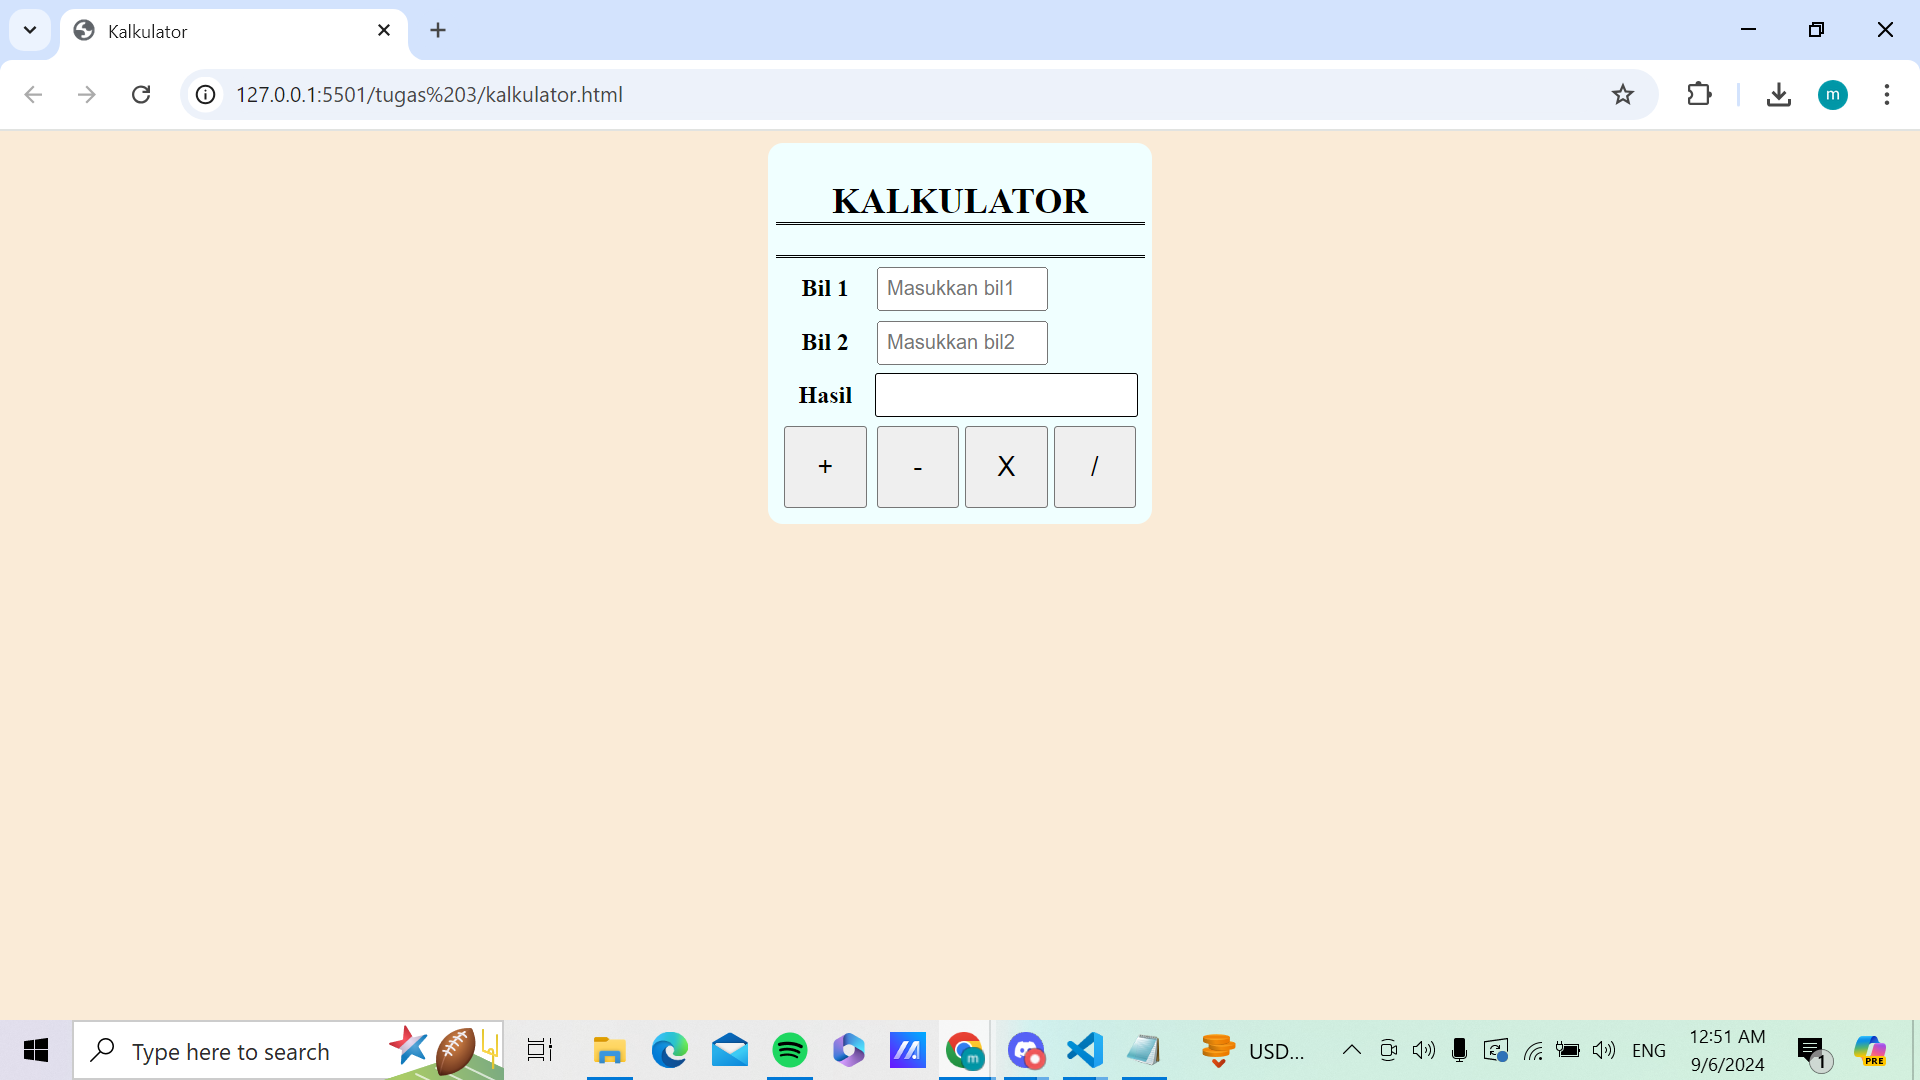
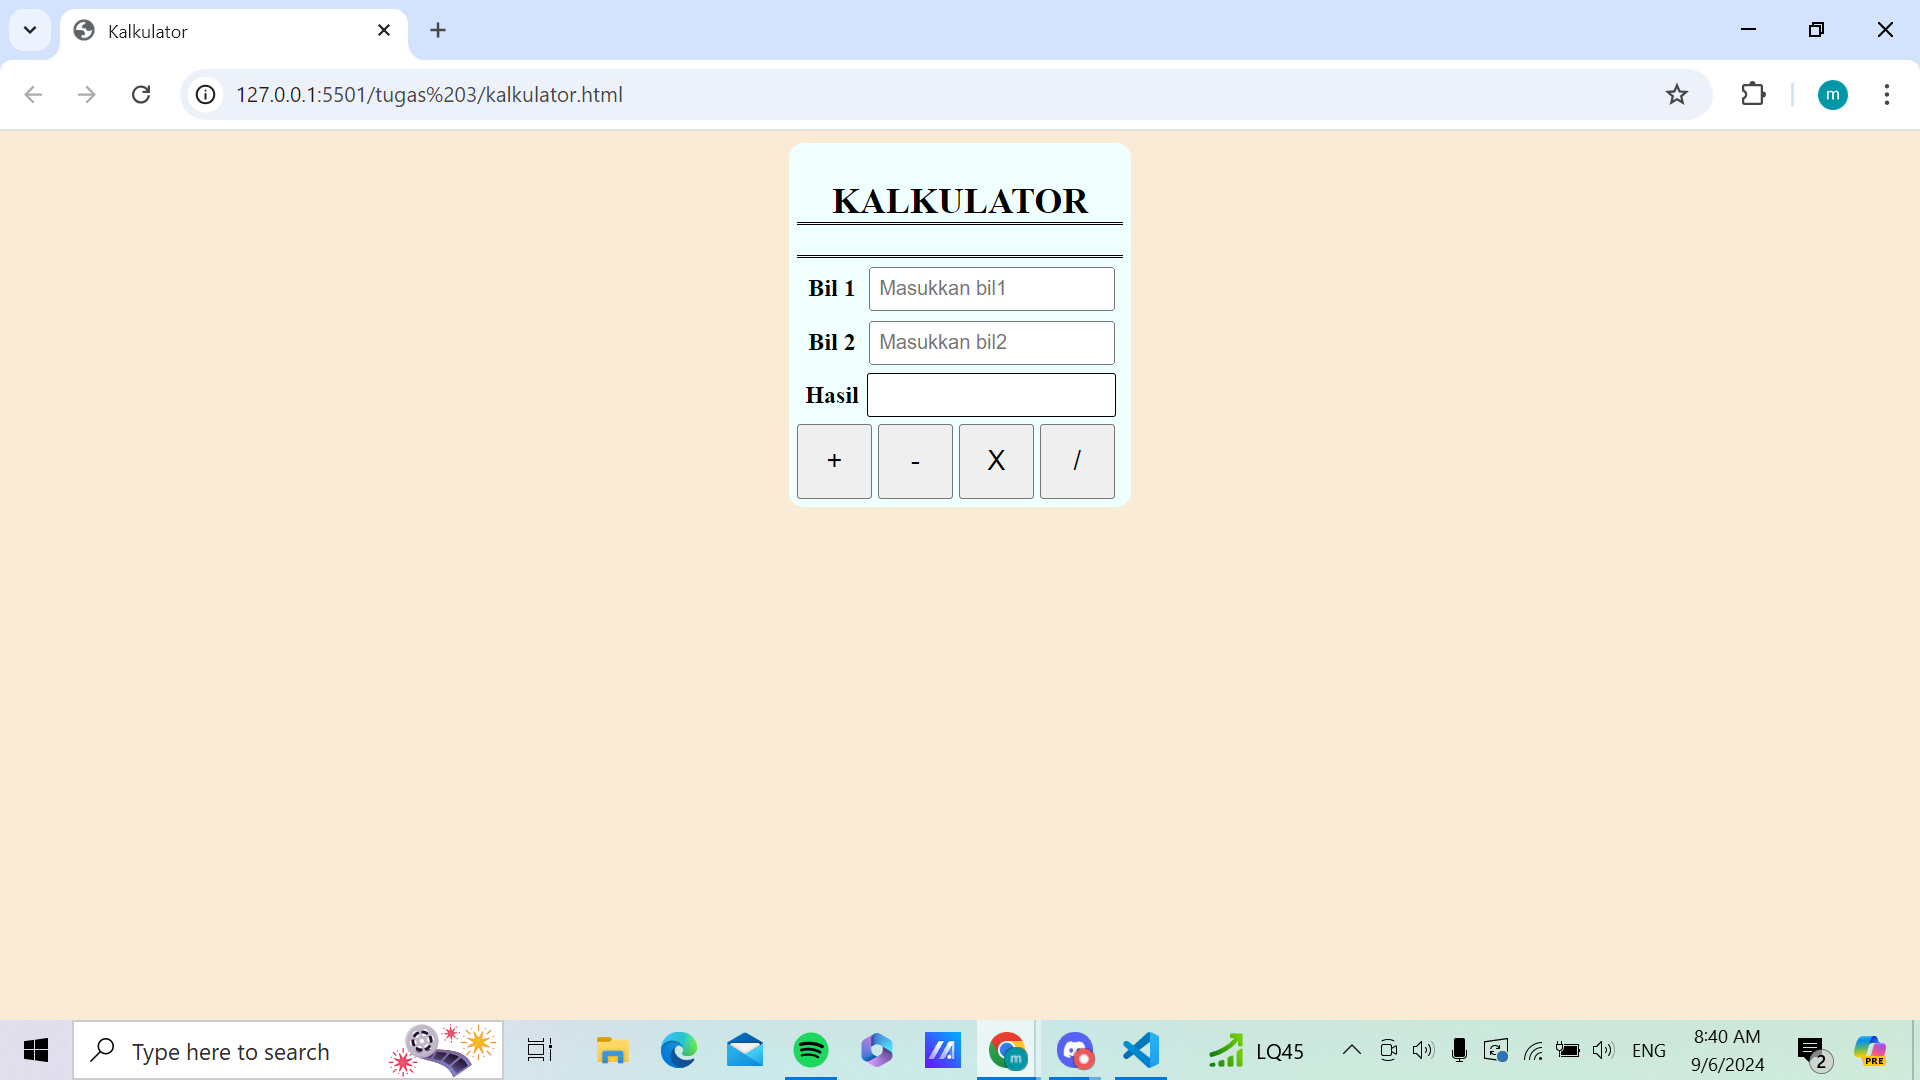
Add files via upload

diff --git a/Tugas3/Kalkulator/kalkulator.html b/Tugas3/Kalkulator/kalkulator.html
@@ -31,15 +31,11 @@ menggunakan javascript.
                     <th>Hasil</th>
                     <td id="hasil"></td>
                 </tr>
-
-                <tr>
-                    <td><button onclick="Menghitung('+')">+</button></td>
-                    <td><button onClick="Menghitung('-')">-</button>
-                    <button onClick="Menghitung('*')">X</button>
-                    <button onclick="Menghitung('/')">/</button>
-                    </td>
-                </tr>
             </table>
+            <button onclick="Menghitung('+')">+</button>
+            <button onClick="Menghitung('-')">-</button>
+            <button onClick="Menghitung('*')">X</button>
+            <button onclick="Menghitung('/')">/</button>
         </div>
 
         <script>

diff --git a/Tugas3/Kalkulator/stylekalkulator.css b/Tugas3/Kalkulator/stylekalkulator.css
@@ -24,13 +24,13 @@ table{
 
 input{
     padding: 5px;
-    width: 100px;
+    width: 150px;
 }
 
 button{
     font-size: 18px;
-    height: 55px;
-    width: 55px;
+    height: 50px;
+    width: 50px;
 }
 
 #hasil{
@@ -39,6 +39,5 @@ button{
     border-radius: 2px;
     padding: 4px;
     padding-left: 8px;
-    max-width: 100px;
     height: 20px;
 }
